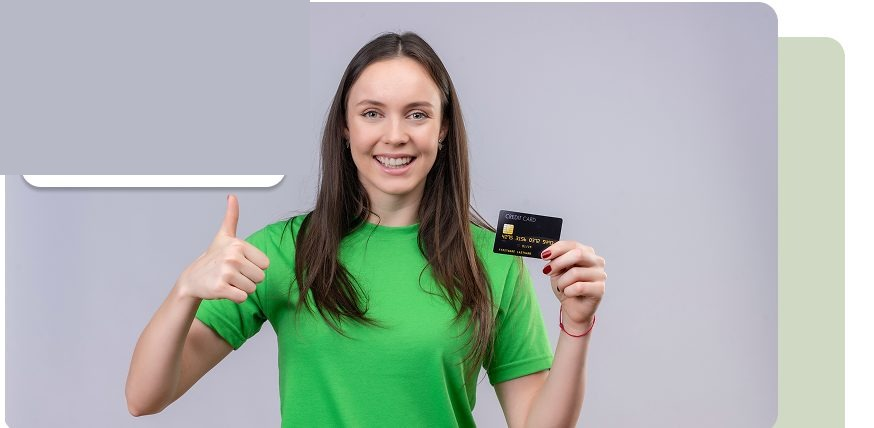
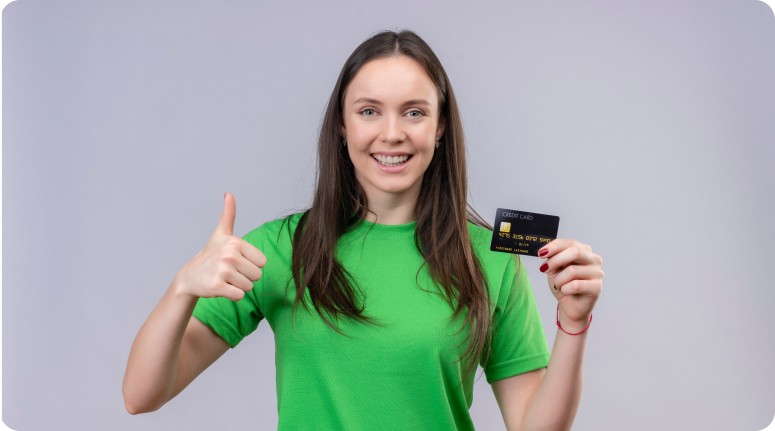
Removed rate limits

diff --git a/lang/hy/hero.php b/lang/hy/hero.php
@@ -8,8 +8,6 @@ return [
             'badge' => 'Բանկային Քարտեր',
             'heading' => 'Բանկային<br>Քարտի Առաջարկներ',
             'paragraph' => 'Համեմատեք Հայաստանի բանկերի կրեդիտ և դեբիտ քարտերի առաջարկները կողք կողքի և ընտրեք Ձեզ համար լավագույն պայմաններով քարտը։',
-            'bubble_question' => 'Ինչպիսի՞ քարտ կառաջարկեք',
-            'bubble_answer' => 'Կարող եք ծանոթանալ թոփ առաջարկներին մեր կայքում։',
             'cta' => 'Տեսնել Քարտերի Առաջարկները',
             'alt' => 'Կին ցուցադրում է բանկային քարտ',
         ],
@@ -17,28 +15,22 @@ return [
             'badge' => 'Փոխարժեքներ',
             'heading' => 'Օրվա Լավագույն<br>Փոխարժեքները',
             'paragraph' => 'Տեսեք, թե որ բանկն է առաջարկում Ձեր արժույթի համար լավագույն գնման և վաճառքի փոխարժեքը՝ միշտ արդիական տվյալներով։',
-            'bubble_question' => 'Որտե՞ղ կարող եմ փոխանակել USD լավագույն փոխարժեքով',
-            'bubble_answer' => 'Ստուգեք բոլոր հետևվող բանկերի այսօրվա դասակարգված փոխարժեքները հենց այստեղ։',
             'cta' => 'Ստուգել Այսօրվա Փոխարժեքները',
-            'alt' => 'Տղամարդ ցուցադրում է բանկային քարտ',
+            'alt' => 'Ժպտացող տղամարդ կապույտ վերնաշապիկով',
         ],
         3 => [
             'badge' => 'Ավտոապահովագրություն',
             'heading' => 'Համեմատեք Ավտոապահովագրության<br>Առաջարկները Ակնթարթորեն',
             'paragraph' => 'Մուտքագրեք Ձեր համարանիշը մեկ անգամ և ստացեք իրական առաջարկներ մեր գործընկեր ապահովագրական ընկերություններից րոպեների ընթացքում՝ առանց հեռախոսազանգերի և սպասման։',
-            'bubble_question' => 'Ապահովագրությո՞ւն էլ եք համեմատում',
-            'bubble_answer' => 'Այո՛։ Ստացեք ակնթարթային ավտոապահովագրության առաջարկներ մի քանի ընկերություններից՝ հենց այստեղ։',
             'cta' => 'Ստանալ Ապահովագրության Առաջարկները',
-            'alt' => 'Կին ցուցադրում է բանկային քարտ',
+            'alt' => 'Կին հեռախոսով և բանկային քարտով',
         ],
         4 => [
             'badge' => 'Ճամփորդական Առաջարկներ',
             'heading' => 'Համեմատեք Ճամփորդական<br>Փաթեթների Առաջարկները',
             'paragraph' => 'Պատմեք Ձեր ուղևորության մասին մեկ անգամ, և մենք կստանանք առաջարկներ գործընկեր տուրիստական գործակալություններից՝ համեմատեք հյուրանոցները, չվերթները և գները կողք կողքի։',
-            'bubble_question' => 'Կարո՞ղ եք օգնել ուղևորությունս պլանավորել',
-            'bubble_answer' => 'Ասացեք ուր եք գնում, և գործընկեր գործակալությունները կուղարկեն իրենց լավագույն առաջարկները հենց այստեղ։',
             'cta' => 'Ստանալ Ճամփորդական Առաջարկները',
-            'alt' => 'Տղամարդ ցուցադրում է բանկային քարտ',
+            'alt' => 'Տղամարդու դիմանկար',
         ],
     ],
 ];

diff --git a/lang/ru/hero.php b/lang/ru/hero.php
@@ -8,8 +8,6 @@ return [
             'badge' => 'Банковские Карты',
             'heading' => 'Предложения по<br>Банковским Картам',
             'paragraph' => 'Сравните предложения по кредитным и дебетовым картам от банков Армении и выберите карту с лучшими условиями для вас.',
-            'bubble_question' => 'Какую карту вы порекомендуете?',
-            'bubble_answer' => 'Вы можете ознакомиться с лучшими предложениями на нашем сайте.',
             'cta' => 'Смотреть Предложения по Картам',
             'alt' => 'Женщина держит банковскую карту',
         ],
@@ -17,28 +15,22 @@ return [
             'badge' => 'Курсы Валют',
             'heading' => 'Лучшие Курсы<br>Валют Сегодня',
             'paragraph' => 'Узнайте, какой банк предлагает лучший курс покупки и продажи вашей валюты - данные обновляются автоматически.',
-            'bubble_question' => 'Где обменять USD по лучшему курсу?',
-            'bubble_answer' => 'Проверьте сегодняшние курсы всех отслеживаемых банков прямо здесь.',
             'cta' => 'Проверить Курсы Сегодня',
-            'alt' => 'Мужчина держит банковскую карту',
+            'alt' => 'Улыбающийся мужчина в синей рубашке',
         ],
         3 => [
             'badge' => 'Автострахование',
             'heading' => 'Сравните Предложения по<br>Автострахованию Мгновенно',
             'paragraph' => 'Введите госномер один раз и получите реальные предложения от наших партнёров-страховщиков за секунды - без звонков и ожидания.',
-            'bubble_question' => 'Вы сравниваете и страхование?',
-            'bubble_answer' => 'Да! Получите мгновенные предложения по автострахованию от нескольких страховщиков прямо здесь.',
             'cta' => 'Получить Предложения по Страхованию',
-            'alt' => 'Женщина держит банковскую карту',
+            'alt' => 'Женщина с телефоном и банковской картой',
         ],
         4 => [
             'badge' => 'Туристические Предложения',
             'heading' => 'Сравните Предложения по<br>Турпакетам',
             'paragraph' => 'Расскажите о своей поездке один раз, и мы получим предложения от партнёрских турагентств - сравните отели, рейсы и цены рядом.',
-            'bubble_question' => 'Можете помочь спланировать поездку?',
-            'bubble_answer' => 'Скажите, куда вы едете, и партнёрские агентства пришлют свои лучшие предложения прямо сюда.',
             'cta' => 'Получить Туристические Предложения',
-            'alt' => 'Мужчина держит банковскую карту',
+            'alt' => 'Портрет мужчины',
         ],
     ],
 ];

diff --git a/app/Providers/AppServiceProvider.php b/app/Providers/AppServiceProvider.php
@@ -80,32 +80,40 @@ class AppServiceProvider extends ServiceProvider
             TrustProxies::at($trustedProxies === '*' ? '*' : array_map('trim', explode(',', $trustedProxies)));
         }
 
+        // Limits default to their real production values below, but are
+        // overridable per-environment via .env - during the pre-launch
+        // testing phase (nginx already restricts the whole site to a
+        // handful of allowlisted IPs, so public abuse isn't reachable
+        // anyway), prod's own .env can set these RATE_LIMIT_* vars much
+        // higher so the small testing team stops tripping them, without
+        // touching this file or the tests that assert the real limits.
+
         // Shared by both the customer and organization login forms (see
         // routes/web.php). Keyed by email+IP, matching Laravel Fortify's
         // default: throttling by IP alone lets an attacker on shared/NAT'd
         // IPs lock out real users, and by email alone allows a distributed
         // brute force from many IPs.
-        RateLimiter::for('login', fn (Request $request) => Limit::perMinute(5)
+        RateLimiter::for('login', fn (Request $request) => Limit::perMinute((int) env('RATE_LIMIT_LOGIN_PER_MINUTE', 5))
             ->by(Str::lower((string) $request->input('email')).'|'.$request->ip()));
 
         // Logged-in reviews are already capped at one per organization by a
         // DB constraint - this mainly guards against a guest submitting
         // reviews across many organizations from a single IP.
-        RateLimiter::for('reviews', fn (Request $request) => Limit::perHour(5)->by($request->ip()));
+        RateLimiter::for('reviews', fn (Request $request) => Limit::perHour((int) env('RATE_LIMIT_REVIEWS_PER_HOUR', 5))->by($request->ip()));
 
         // Each submission fans out to every matching partner's Telegram, so
         // this also protects partners from being spammed via one abusive IP.
-        RateLimiter::for('quote_requests', fn (Request $request) => Limit::perHour(5)->by($request->ip()));
+        RateLimiter::for('quote_requests', fn (Request $request) => Limit::perHour((int) env('RATE_LIMIT_QUOTE_REQUESTS_PER_HOUR', 5))->by($request->ip()));
 
         // Guards against using the resend form to mass-email arbitrary
         // addresses - the response is identical whether or not a match is
         // found, so this is the only real abuse control here.
-        RateLimiter::for('quote_link_resend', fn (Request $request) => Limit::perHour(5)->by($request->ip()));
+        RateLimiter::for('quote_link_resend', fn (Request $request) => Limit::perHour((int) env('RATE_LIMIT_QUOTE_LINK_RESEND_PER_HOUR', 5))->by($request->ip()));
 
         // The response_token itself is the real access control (a 40-char
         // random string per partner per request) - this is just defense in
         // depth against brute-forcing or spamming the submit endpoint.
-        RateLimiter::for('quote_response_submit', fn (Request $request) => Limit::perHour(20)->by($request->ip()));
+        RateLimiter::for('quote_response_submit', fn (Request $request) => Limit::perHour((int) env('RATE_LIMIT_QUOTE_RESPONSE_SUBMIT_PER_HOUR', 20))->by($request->ip()));
 
         // Socialite ships Google/Facebook/GitHub/etc. natively but not Apple -
         // this registers the community socialiteproviders/apple driver so

diff --git a/resources/views/components/hero-carousel.blade.php b/resources/views/components/hero-carousel.blade.php
@@ -57,7 +57,7 @@
             >
                 {{-- Text column --}}
                 <div>
-                    <span class="relative inline-flex rounded-full px-4 py-2 text-sm font-medium {{ $slide['badge'] }}">
+                    <span class="relative inline-flex rounded-full px-4 py-2 text-sm font-medium shadow-sm {{ $slide['badge'] }}">
                         {{ __("hero.slides.$n.badge") }}
                         <span class="absolute -bottom-1.5 left-6 h-3 w-3 rotate-45 {{ $slide['badge'] }}"></span>
                     </span>
@@ -71,10 +71,10 @@
                     </p>
 
                     <div class="mt-8 flex flex-wrap items-center gap-4">
-                        <a href="{{ $slide['href'] }}" class="px-6 py-3 text-sm font-medium transition {{ $slide['button'] }}">
+                        <a href="{{ $slide['href'] }}" class="px-6 py-3 text-sm font-medium shadow-sm transition duration-300 hover:-translate-y-0.5 hover:shadow-md {{ $slide['button'] }}">
                             {{ __("hero.slides.$n.cta") }}
                         </a>
-                        <a href="{{ route('home') }}#rates" class="border border-ink px-6 py-3 text-sm font-medium text-ink transition hover:bg-ink hover:text-white">
+                        <a href="{{ route('home') }}#rates" class="border border-ink px-6 py-3 text-sm font-medium text-ink transition duration-300 hover:-translate-y-0.5 hover:bg-ink hover:text-white hover:shadow-md">
                             {{ __('common.compare_banks') }}
                         </a>
                     </div>
@@ -84,7 +84,7 @@
                 <div class="relative">
                     <div class="absolute inset-x-6 -bottom-6 -right-6 top-6 rounded-3xl {{ $slide['blob'] }}"></div>
 
-                    <div class="overflow-hidden rounded-3xl">
+                    <div class="overflow-hidden rounded-3xl shadow-xl">
                         <img
                             src="{{ asset('images/hero/' . $slide['photo']) }}"
                             alt="{{ __("hero.slides.$n.alt") }}"
@@ -93,16 +93,6 @@
                             loading="{{ $i === 0 ? 'eager' : 'lazy' }}"
                             class="h-auto w-full object-cover"
                         >
-                    </div>
-
-                    <div class="absolute top-6 -left-4 flex flex-col items-start gap-2">
-                        <span class="relative rounded-2xl bg-white px-4 py-2 text-xs font-medium whitespace-nowrap text-ink shadow-md">
-                            {{ __("hero.slides.$n.bubble_question") }}
-                        </span>
-                        <span class="relative ml-4 w-[240px] rounded-2xl bg-white px-4 py-3 text-xs leading-relaxed text-ink shadow-md">
-                            {{ __("hero.slides.$n.bubble_answer") }}
-                            <span class="absolute -bottom-1.5 left-6 h-3 w-3 rotate-45 bg-white"></span>
-                        </span>
                     </div>
                 </div>
             </div>

diff --git a/routes/web/auth/auth.php b/routes/web/auth/auth.php
@@ -16,8 +16,16 @@ Route::get('/register', function () {
 // Clicking the link from a verification email is guard-agnostic (see
 // VerifyEmailController::verify) - only *requesting* a new one differs per
 // account type, handled by each guard's own group below.
+//
+// The 6/minute default below is overridable per-environment via
+// RATE_LIMIT_VERIFY_PER_MINUTE (same pattern as the named limiters in
+// AppServiceProvider) - prod's .env can raise this during the pre-launch
+// testing phase without changing the default or the tests that assert it.
+// Inlined at each of the 4 usages rather than a shared helper, since this
+// file gets require()'d more than once per process during testing and a
+// top-level named function would fatal on the second declaration.
 Route::get('/email/verify/{id}/{hash}', [VerifyEmailController::class, 'verify'])
-    ->middleware(['signed', 'throttle:6,1'])
+    ->middleware(['signed', 'throttle:'.((int) env('RATE_LIMIT_VERIFY_PER_MINUTE', 6)).',1'])
     ->name('verification.verify');
 
 // Customer
@@ -30,7 +38,7 @@ Route::middleware(['auth', 'banned'])->group(function () {
     Route::post('/logout', [AuthenticatedSessionController::class, 'destroy'])->name('logout');
 
     Route::post('/email/verification-notification', [VerifyEmailController::class, 'resendForCustomer'])
-        ->middleware('throttle:6,1')
+        ->middleware('throttle:'.((int) env('RATE_LIMIT_VERIFY_PER_MINUTE', 6)).',1')
         ->name('verification.send');
 });
 
@@ -50,7 +58,7 @@ Route::prefix('org')->name('org.')->group(function () {
         Route::post('/logout', [OrganizationAuthenticatedSessionController::class, 'destroy'])->name('logout');
 
         Route::post('/email/verification-notification', [VerifyEmailController::class, 'resendForOrganization'])
-            ->middleware('throttle:6,1')
+            ->middleware('throttle:'.((int) env('RATE_LIMIT_VERIFY_PER_MINUTE', 6)).',1')
             ->name('verification.send');
     });
 });
@@ -66,7 +74,7 @@ Route::prefix('writer')->name('writer.')->group(function () {
         Route::post('/logout', [WriterAuthenticatedSessionController::class, 'destroy'])->name('logout');
 
         Route::post('/email/verification-notification', [VerifyEmailController::class, 'resendForWriter'])
-            ->middleware('throttle:6,1')
+            ->middleware('throttle:'.((int) env('RATE_LIMIT_VERIFY_PER_MINUTE', 6)).',1')
             ->name('verification.send');
     });
 });

diff --git a/lang/en/hero.php b/lang/en/hero.php
@@ -8,8 +8,6 @@ return [
             'badge' => 'Bank Cards',
             'heading' => 'Bank Card<br>Offers',
             'paragraph' => "Compare credit and debit card offers from Armenia's banks side by side, and pick the one with the best perks for you.",
-            'bubble_question' => 'Which card would you recommend?',
-            'bubble_answer' => 'You can browse our top offers right here on the site.',
             'cta' => 'See Card Offers',
             'alt' => 'Woman holding a bank card',
         ],
@@ -17,28 +15,22 @@ return [
             'badge' => 'Live Rates',
             'heading' => 'Best Exchange<br>Rates Today',
             'paragraph' => "See which bank offers the best buy and sell rate for your currency, kept current automatically.",
-            'bubble_question' => 'Where can I exchange USD for the best rate?',
-            'bubble_answer' => "Check today's ranked rates from every bank we track, right here.",
             'cta' => "Check Today's Rates",
-            'alt' => 'Man holding a bank card',
+            'alt' => 'Smiling man in a blue shirt',
         ],
         3 => [
             'badge' => 'Auto Insurance',
             'heading' => 'Compare Auto Insurance<br>Quotes Instantly',
             'paragraph' => "Enter your plate number once, and get real quotes from our partner insurers in seconds - no phone calls, no waiting.",
-            'bubble_question' => 'Do you compare insurance too?',
-            'bubble_answer' => 'Yes! Get instant auto insurance quotes from multiple insurers, right here.',
             'cta' => 'Get Insurance Quotes',
-            'alt' => 'Woman holding a bank card',
+            'alt' => 'Woman holding a phone and a bank card',
         ],
         4 => [
             'badge' => 'Travel Quotes',
             'heading' => 'Compare Travel<br>Package Quotes',
             'paragraph' => "Tell us your trip once, and we'll get quotes from partner travel agencies - compare hotels, flights and prices side by side.",
-            'bubble_question' => 'Can you help me plan a trip?',
-            'bubble_answer' => "Tell us where you're going, and partner agencies will send their best offers here.",
             'cta' => 'Get Travel Quotes',
-            'alt' => 'Man holding a bank card',
+            'alt' => 'Portrait of a man',
         ],
     ],
 ];
